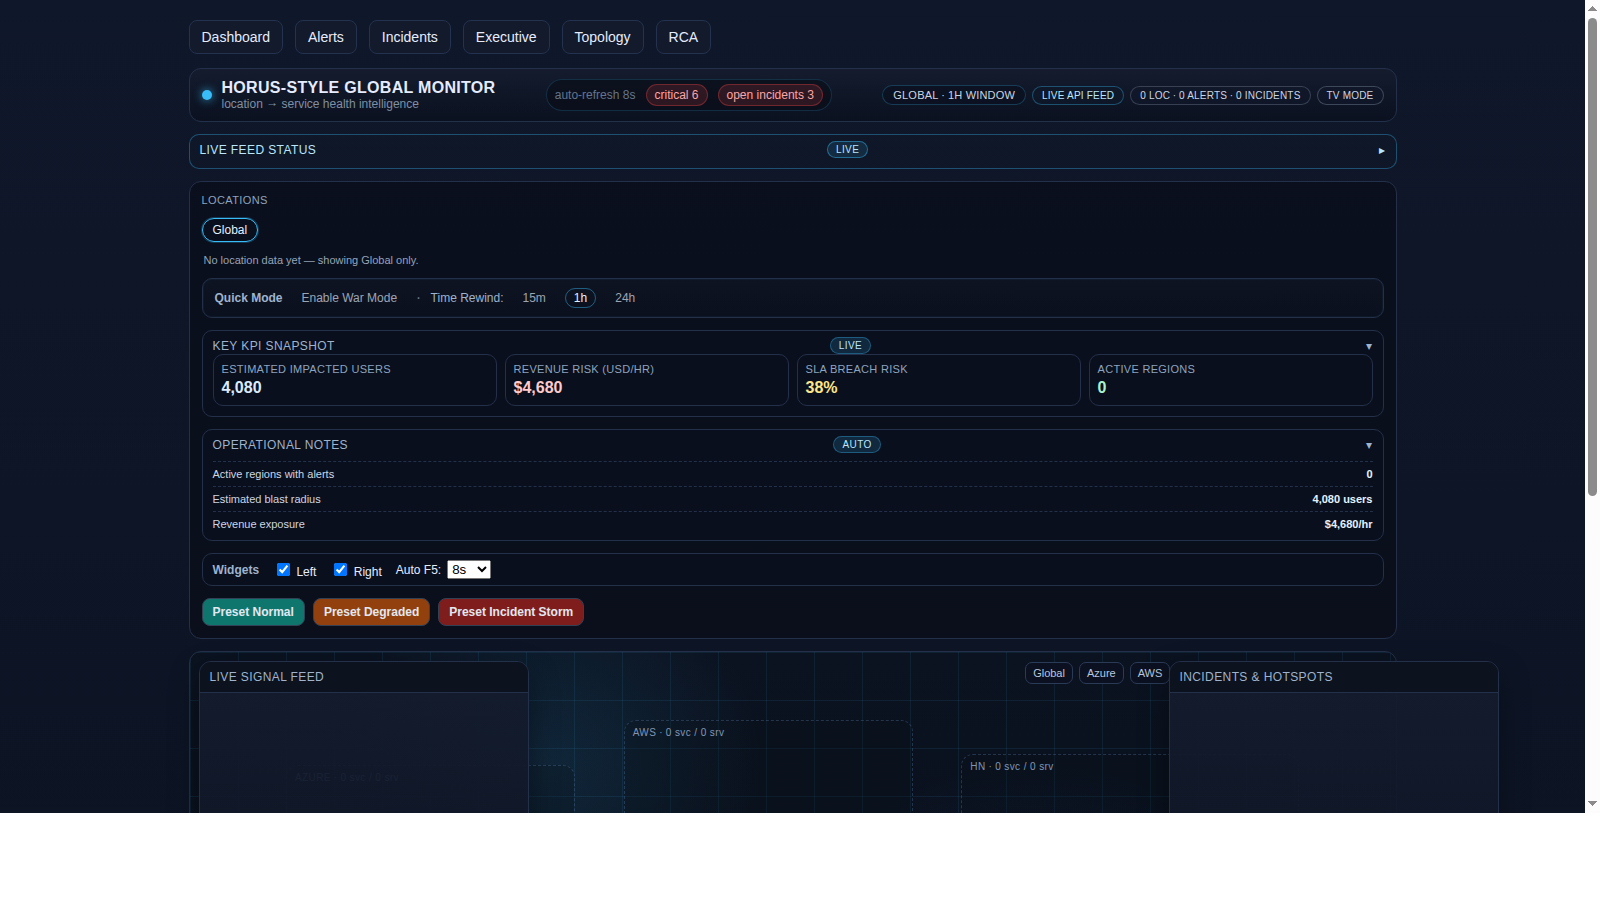
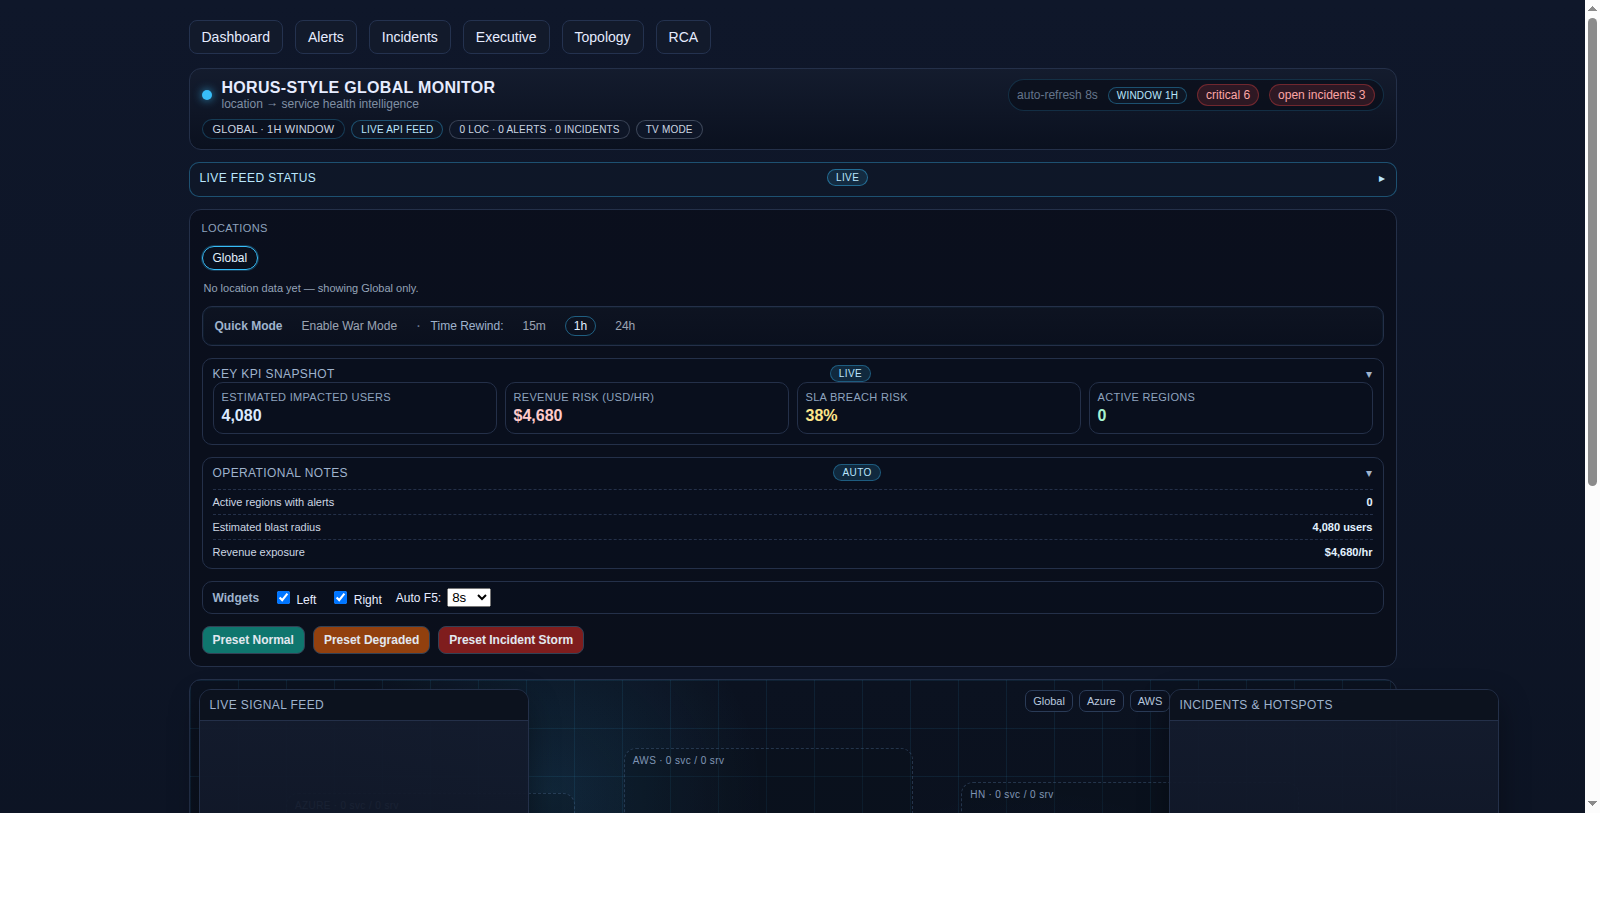
Polish home topbar data window pill

diff --git a/worldmonitor-hybrid/web/app/page.js b/worldmonitor-hybrid/web/app/page.js
@@ -172,6 +172,7 @@ export default async function DashboardPage({ searchParams }) {
         </div>
         <div className={styles.topbarStats}>
           <AutoRefresh seconds={8} />
+          <span className={styles.windowPill}>Window {dataWindow}</span>
           <StatusBadge status={`critical ${focusedOpenAlerts || 0}`} />
           <StatusBadge status={`open incidents ${focusedOpenIncidents || 0}`} />
         </div>

diff --git a/worldmonitor-hybrid/web/app/home.module.css b/worldmonitor-hybrid/web/app/home.module.css
@@ -39,6 +39,17 @@
   background: rgba(8,12,22,.6);
 }
 
+.windowPill {
+  font-size: 10px;
+  color: #bae6fd;
+  border-radius: 999px;
+  border: 1px solid rgba(56,189,248,.35);
+  background: rgba(14,24,40,.7);
+  padding: 2px 8px;
+  letter-spacing: .2px;
+  text-transform: uppercase;
+}
+
 .topbarMeta {
   display: flex;
   align-items: center;

diff --git a/worldmonitor-hybrid/CHANGELOG.md b/worldmonitor-hybrid/CHANGELOG.md
@@ -3,6 +3,7 @@
 ## 2026-03-07
 
 ### Changed
+- Home: thêm pill hiển thị data window ngay trong topbar trạng thái để thấy nhanh cửa sổ dữ liệu backend khi TV mode hoặc rollout live.
 - API ingest: chống tạo trùng `services` khi webhook gửi cùng service name khác chữ hoa/thường (ví dụ `API-Gateway` vs `api-gateway`) bằng cách resolve service theo `LOWER(name)`; giúp dữ liệu topology/summary ổn định hơn và tránh phình service ảo.
 - API incidents: harden `POST /incidents` để validate `service_id` tồn tại trước khi insert; trả `422 Invalid service_id` thay vì để lỗi foreign-key rơi thành 500, giúp API rõ ràng hơn khi client gửi id dịch vụ không hợp lệ.
 - API query filters: chuẩn hoá `location_code`/`env` cho `GET /alerts`, `GET /incidents`, `GET /topology` (trim + lowercase + bỏ filter nếu rỗng) để tránh lọc nhầm khi client gửi query toàn khoảng trắng và giữ topology fallback về `prod` khi `env` trống.
